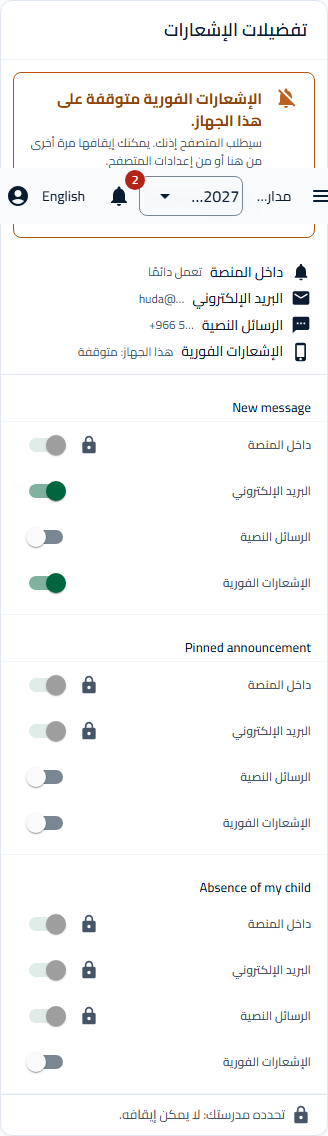
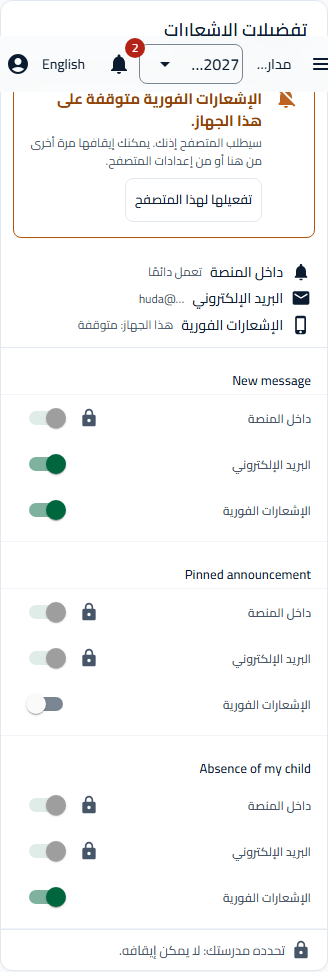
fix(ui): narrow-only messaging rules, no SMS (D76), class groups read-only for students (D74)
QA on #729: every rules cell offered all four values, so an admin could
widen Student/Guardian to Teacher/Counselor past the D69 default. Each cell's
default is now its ceiling (RuleCellValue.Ceiling, Rank, Allows): wider
options show disabled with "wider than the safeguarding default", and
MessagingRulesMatrix.SetAsync rejects a wider value or any change to a
locked cell without raising OnChanged. Tests cover the ceiling, the
rejection and the disabled options.

Owner decisions on main: D76 removes the SMS channel from the preferences
parts (enum, column, captions, resources, tests, gallery); D74 adds the
read-only class-group reason with "Message the teacher"; D77 is documented
(guardians keep their composer in teacher-run groups). The rules popover
is 300 px wide from 600 px so the reasons read on one line.

diff --git a/src/Lms.Client/wwwroot/css/lms-stitch.css b/src/Lms.Client/wwwroot/css/lms-stitch.css
@@ -262,6 +262,9 @@ html[data-theme="dark"] .mud-button-outlined { border-color: #334155; }
 .lms-rules-table .lms-rules-from { text-align: start; font-weight: 500; white-space: nowrap; }
 .lms-rules-table.mud-simple-table table th, .lms-rules-table.mud-simple-table table td { padding-inline: 4px; }
 .lms-rules-select { min-inline-size: 112px; }
+@media (min-width: 600px) { .lms-rules-pop { min-inline-size: 300px; } }
+.lms-composer-off .mud-alert-message { display: flex; flex-direction: column; align-items: flex-start; gap: 8px; }
+.lms-rules-wider { font-size: .75rem; color: var(--mud-palette-text-secondary); }
 .lms-rules-select .mud-input { font-size: .875rem; }
 @media (min-width: 600px) {
     /* When the matrix scrolls inside its card (narrow desktops), the From column stays in view. */

diff --git a/tests/Lms.Client.Tests/Components/Messaging/MessagingComponents4Tests.cs b/tests/Lms.Client.Tests/Components/Messaging/MessagingComponents4Tests.cs
@@ -90,6 +90,60 @@ public sealed class MessagingComponents4Tests : ClientTestContext
     }
 
     [Fact]
+    public void Each_default_is_the_ceiling_and_only_narrower_values_are_allowed()
+    {
+        var cells = MessagingRulesMatrix.D69Defaults();
+        var studentToTeacher = cells[(MessagingRole.Student, MessagingRole.Teacher)];
+
+        Assert.Equal(MessagingVia.Relationship, studentToTeacher.Max);
+        Assert.False(studentToTeacher.Allows(MessagingVia.Anywhere));
+        Assert.False(studentToTeacher.Allows(MessagingVia.SameUnit));
+        Assert.True(studentToTeacher.Allows(MessagingVia.Relationship));
+        Assert.True(studentToTeacher.Allows(MessagingVia.NotAllowed));
+        Assert.False(cells[(MessagingRole.Manager, MessagingRole.Teacher)].Allows(MessagingVia.Anywhere)); // Same unit is the ceiling
+        Assert.True(cells[(MessagingRole.OrgAdmin, MessagingRole.Teacher)].Allows(MessagingVia.Anywhere));
+        Assert.False(cells[(MessagingRole.Student, MessagingRole.Student)].Allows(MessagingVia.NotAllowed)); // locked: nothing changes
+    }
+
+    [Fact]
+    public async Task Set_rejects_a_wider_value_and_any_change_to_a_locked_cell_and_raises_nothing()
+    {
+        English();
+        var cells = MessagingRulesMatrix.D69Defaults();
+        var changed = 0;
+        var cut = Render<MessagingRulesMatrix>(p => p.Add(c => c.Cells, cells).Add(c => c.OnChanged, EventCallback.Factory.Create(this, () => changed++)));
+
+        var guardianToCounselor = cells[(MessagingRole.Guardian, MessagingRole.Counselor)];
+        Assert.False(await cut.InvokeAsync(() => cut.Instance.SetAsync(guardianToCounselor, MessagingVia.Anywhere)));
+        Assert.Equal(MessagingVia.Relationship, guardianToCounselor.Via);
+
+        var locked = cells[(MessagingRole.Manager, MessagingRole.Student)];
+        Assert.False(await cut.InvokeAsync(() => cut.Instance.SetAsync(locked, MessagingVia.NotAllowed)));
+        Assert.Equal(MessagingVia.GroupsOnly, locked.Via);
+        Assert.Equal(0, changed);
+
+        Assert.True(await cut.InvokeAsync(() => cut.Instance.SetAsync(guardianToCounselor, MessagingVia.NotAllowed)));
+        Assert.Equal(MessagingVia.NotAllowed, guardianToCounselor.Via);
+        Assert.Equal(1, changed);
+        Assert.True(guardianToCounselor.Allows(MessagingVia.Relationship)); // narrowed, and can return up to its default
+    }
+
+    [Fact]
+    public async Task Wider_options_are_shown_disabled_with_the_reason()
+    {
+        English();
+        var popovers = Render<MudBlazor.MudPopoverProvider>();
+        var cut = Render<MessagingRulesMatrix>(p => p.Add(c => c.Cells, MessagingRulesMatrix.D69Defaults()));
+
+        await cut.Find("[data-testid=rules-Student-Teacher] .mud-select .mud-input-control").MouseDownAsync(new MouseEventArgs());
+        var items = popovers.FindAll(".mud-popover-open .mud-list-item");
+        var anywhere = items.Single(i => i.TextContent.Contains("Anyone"));
+        Assert.Contains("mud-list-item-disabled", anywhere.ClassName);
+        Assert.Contains("wider than the safeguarding default", anywhere.TextContent);
+        Assert.DoesNotContain("mud-list-item-disabled", items.Single(i => i.TextContent.Trim().StartsWith("Not allowed")).ClassName);
+    }
+
+    [Fact]
     public void Matrix_shows_a_select_only_for_unlocked_cells_and_labels_rows_for_phones()
     {
         English();

diff --git a/tests/Lms.Client.Tests/Components/Messaging/MessagingComponents3Tests.cs b/tests/Lms.Client.Tests/Components/Messaging/MessagingComponents3Tests.cs
@@ -12,12 +12,11 @@ public sealed class MessagingComponents3Tests : ClientTestContext
 {
     private static void English() => FakeCultureService.Apply(new CultureInfo("en"));
 
-    private static IReadOnlyList<ChannelColumn> Columns(bool hasPhone = true) =>
+    private static IReadOnlyList<ChannelColumn> Columns(bool push = true) =>
     [
         new(NotificationChannel.InApp, "Always on"),
         new(NotificationChannel.Email, "huda@…"),
-        new(NotificationChannel.Sms, "+966 5…", hasPhone, hasPhone ? null : "Add a mobile number in your profile", hasPhone ? null : "me/profile"),
-        new(NotificationChannel.Push, "This device: off"),
+        new(NotificationChannel.Push, "This device: off", push, push ? null : "Not available on this browser"),
     ];
 
     [Fact]
@@ -55,14 +54,22 @@ public sealed class MessagingComponents3Tests : ClientTestContext
     }
 
     [Fact]
-    public void Without_a_mobile_number_sms_is_disabled_and_says_why()
+    public void Without_push_in_this_browser_the_push_column_is_disabled_and_says_why()
     {
         English();
-        var cut = Render<ChannelPreferences>(p => p.Add(c => c.Columns, Columns(hasPhone: false)).Add(c => c.Rows, new[] { new PreferenceRow { Key = "msg", Label = "New message" } }));
+        var cut = Render<ChannelPreferences>(p => p.Add(c => c.Columns, Columns(push: false)).Add(c => c.Rows, new[] { new PreferenceRow { Key = "msg", Label = "New message" } }));
 
-        Assert.True(cut.Find("[data-testid=prefs-msg-Sms] input").HasAttribute("disabled"));
-        Assert.Contains("Add a mobile number", cut.Find("[data-testid=prefs-col-Sms]").TextContent);
-        Assert.Equal("me/profile", cut.Find("[data-testid=prefs-col-Sms] a").GetAttribute("href"));
+        Assert.True(cut.Find("[data-testid=prefs-msg-Push] input").HasAttribute("disabled"));
+        Assert.Contains("Not available on this browser", cut.Find("[data-testid=prefs-col-Push]").TextContent);
+    }
+
+    [Fact]
+    public void There_is_no_sms_channel_in_v1()
+    {
+        English();
+        Assert.DoesNotContain("Sms", Enum.GetNames<NotificationChannel>());
+        var cut = Render<ChannelPreferences>(p => p.Add(c => c.Columns, Columns()).Add(c => c.Rows, new[] { new PreferenceRow { Key = "msg", Label = "New message" } }));
+        Assert.DoesNotContain("SMS", cut.Markup);
     }
 
     [Fact]

diff --git a/src/Lms.Client/Components/Messaging/ComposeModels.cs b/src/Lms.Client/Components/Messaging/ComposeModels.cs
@@ -41,9 +41,30 @@ public enum MessagingRole
     Guardian,
 }
 
-/// <summary>One cell of the rules matrix: the rule, and whether D69 locks it.</summary>
+/// <summary>
+/// One cell of the rules matrix. A school may only narrow a rule, never widen it (D69: the Org Admin may tighten per client): the server's default
+/// for the cell is its <see cref="Ceiling"/>, and a value wider than it is never offered or accepted. A cell D69 fixes is <see cref="Locked"/>.
+/// </summary>
 public sealed class RuleCellValue
 {
     public MessagingVia Via { get; set; }
+
+    /// <summary>The widest value this cell may take: the platform default (D69 floor). Set by the server; defaults to the initial value.</summary>
+    public MessagingVia? Ceiling { get; init; }
     public bool Locked { get; init; }
+
+    public MessagingVia Max => Ceiling ?? Via;
+
+    /// <summary>Narrow to wide: Not allowed, Own classes, Same unit, Anyone. Groups only is a locked D69 value.</summary>
+    public static int Rank(MessagingVia via) => via switch
+    {
+        MessagingVia.NotAllowed => 0,
+        MessagingVia.Relationship => 1,
+        MessagingVia.SameUnit => 2,
+        MessagingVia.Anywhere => 3,
+        _ => -1,
+    };
+
+    /// <summary>Whether this cell may take <paramref name="via"/>: never on a locked cell, never wider than the ceiling.</summary>
+    public bool Allows(MessagingVia via) => !Locked && Rank(via) >= 0 && Rank(via) <= Rank(Max);
 }

diff --git a/src/Lms.Client/Components/Messaging/PreferenceModels.cs b/src/Lms.Client/Components/Messaging/PreferenceModels.cs
@@ -1,16 +1,15 @@
 namespace Lms.Client.Components.Messaging;
 
-/// <summary>The four delivery channels of the preferences page (spec #615 §6), in column order.</summary>
+/// <summary>The delivery channels of the preferences page (spec #615 §6), in column order. No SMS in v1 (D76).</summary>
 public enum NotificationChannel
 {
     InApp,
     Email,
-    Sms,
     Push,
 }
 
 /// <summary>A channel column: its caption is the address in use (masked) or the push state of this device; an unavailable channel disables its
-/// switches and says why (no mobile number, or a browser without push).</summary>
+/// switches and says why (a browser without push).</summary>
 public sealed record ChannelColumn(NotificationChannel Channel, string Caption, bool Available = true, string? UnavailableText = null, string? UnavailableHref = null);
 
 /// <summary>One event row: its label and, per channel, whether it is on and whether the school locked it (a mandatory event).</summary>

diff --git a/docs/DESIGN.md b/docs/DESIGN.md
@@ -237,8 +237,9 @@ The M6 spec (PR 615) draws the pages; these presentational components and the `l
 - **Notification centre:** `NotificationPanel` (the bell's card: h2, Mark all as read, a settings link, See all) and `NotificationItem` (one link whose accessible name starts "Unread:"; the actor in a bdi; a quote and the time). `ListGroupLabel` gives "Earlier" and the picker groups.
 - **Recipients and safeguarding (D69):** `RecipientOption` (a person with initials and a caption, or a group with its size; a near-miss is disabled with its reason in its name and never shows a size) and `SafeguardingOption`, the one disabled "No students here" row managers and org admins see instead of students. `ThreadHeader` shows a person's role and context, or "Group · n people" that opens Members, so everyone can see who can read the conversation. `MessagingRuleCell` draws a rules-matrix cell; a D69 cell is a locked chip with the safeguarding reason, never a select.
 - **Announcement composer:** `AnnouncementComposerForm` edits an `AnnouncementDraft` (a UI model the page maps to the contract): both titles required with the reason at the field, the bodies, the allowed scope kinds, the page's target picker, Include the units below, `RoleFilterChips` (aria-pressed with a check), `ReachEstimate` (role="status", rounded above 100), Now or Schedule with the time-zone caption, `ToggleRow` for Pin and Notify, attachments, the expiry, then Cancel, Save as draft and Publish or Schedule. A draft needs only both titles.
-- **Preferences and moderation:** `ChannelPreferences` (events by In-app, Email, SMS and Push; In-app and school-mandatory cells are locked switches with the Lock icon before them, explained once; an unavailable channel is disabled with its reason and a fix link; below 600 px a channel summary keeps the addresses and reasons, and each event becomes labelled rows) and `PushPermissionAlert` (Off offers Turn on; Denied explains the browser setting with no button). `ModerationDecision` is a fieldset radio group mapped to #613 `ModerationActions`, each with what happens, the three that act on the sender or conversation last in the error colour, and a 1/7/30-day duration for restrict. `ReportStatusChip` (a safety concern is error) and `ReportedMessage` (the outlined bubble with a Reported message chip).
-- **New message and the rules matrix:** `RecipientPicker` (picked recipients as chips, then a search from 2 characters over the page's rules-filtered search; group labels, the D69 row and near-misses render but are never picked) inside `ComposeMessageForm` (To, an optional subject that names a group, the message, the group note, Attach / Cancel / Send). `MessagingRulesMatrix` (From rows by To columns, a select per open cell, D69 cells locked; scrolls inside its card with a sticky From column, and stacks below 600 px); `D69Defaults()` gives the floor for fakes.
+- **Preferences and moderation:** `ChannelPreferences` (events by In-app, Email and Push; no SMS in v1, D76; In-app and school-mandatory cells are locked switches with the Lock icon before them, explained once; an unavailable channel (push in this browser) is disabled with its reason; below 600 px a channel summary keeps the addresses and reasons, and each event becomes labelled rows) and `PushPermissionAlert` (Off offers Turn on; Denied explains the browser setting with no button). `ModerationDecision` is a fieldset radio group mapped to #613 `ModerationActions`, each with what happens, the three that act on the sender or conversation last in the error colour, and a 1/7/30-day duration for restrict. `ReportStatusChip` (a safety concern is error) and `ReportedMessage` (the outlined bubble with a Reported message chip).
+- **New message and the rules matrix:** `RecipientPicker` (picked recipients as chips, then a search from 2 characters over the page's rules-filtered search; group labels, the D69 row and near-misses render but are never picked) inside `ComposeMessageForm` (To, an optional subject that names a group, the message, the group note, Attach / Cancel / Send). `MessagingRulesMatrix` (From rows by To columns, a select per open cell; **narrow only**: each cell's default is its ceiling, wider options are disabled with "wider than the safeguarding default" and `SetAsync` rejects them; D69 cells locked; scrolls inside its card with a sticky From column, and stacks below 600 px); `D69Defaults()` gives the floor for fakes.
+- **Owner decisions D74 and D77:** in a class-course group only the teacher and staff post; a student sees `ComposerOff` with "Only the teacher posts in this class group…" and **Message the teacher** (D74). Guardians may post in teacher-run groups that include guardians (D77), so their composer stays. The server decides; the page only picks the reason.
 - **Gallery:** `/dev/messaging-gallery` on the standalone dev server only (it's the not-found page against a real API). Screenshots: `docs/screenshots/ux-m6-components/`.
 
 ## 8. Phase 2 status (page-by-page passes)
